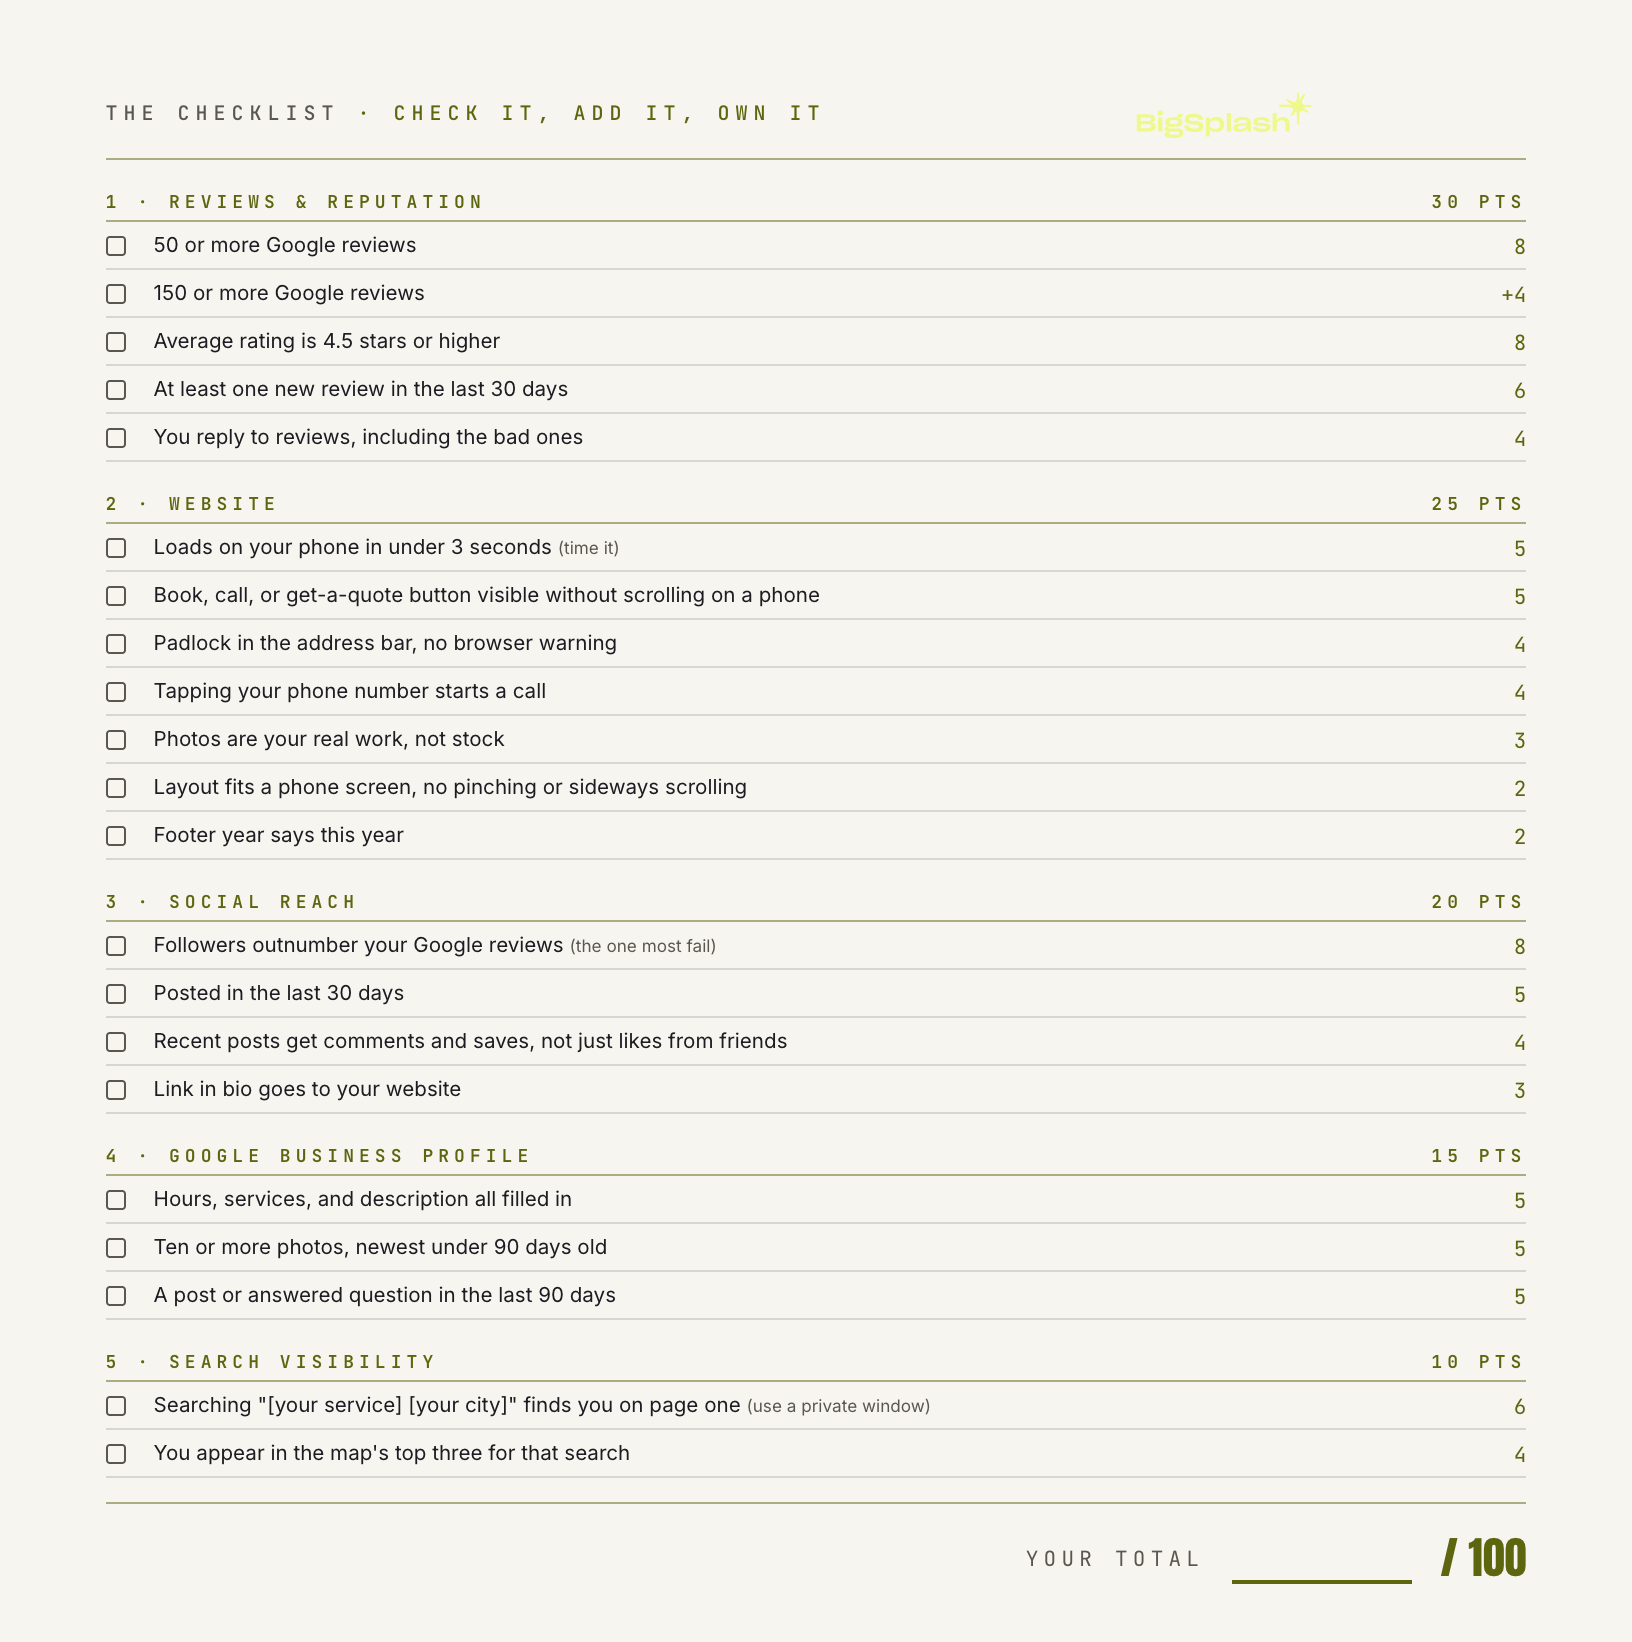
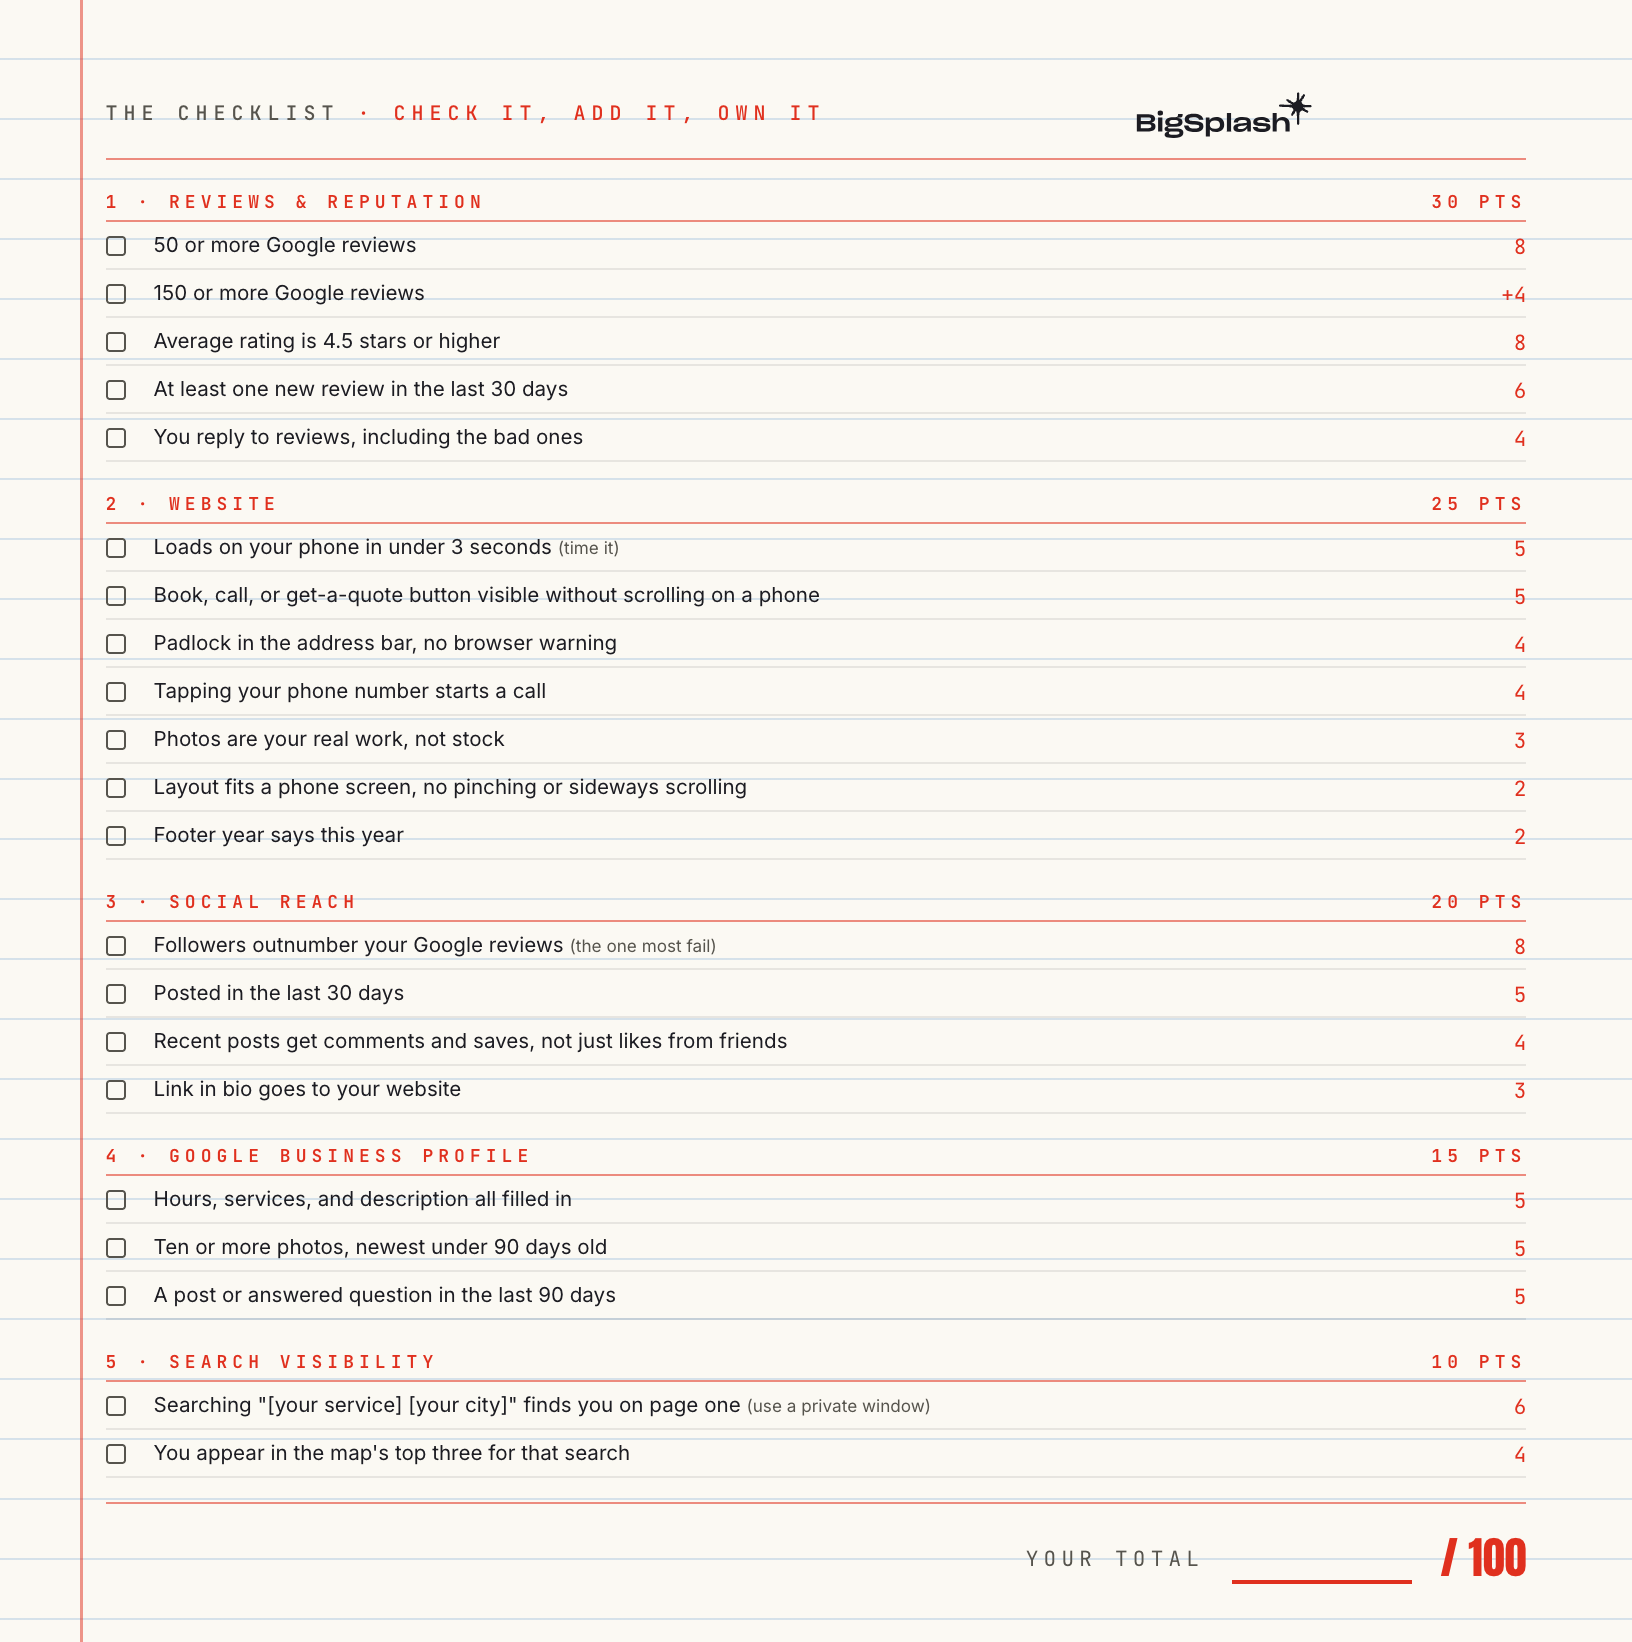
Scorecard preview: school ruled-paper look with red grading + red glow

diff --git a/scorecard/index.html b/scorecard/index.html
@@ -44,8 +44,9 @@
   .hero p { font-size: clamp(16px, 2.2vw, 19px); color: var(--cream-dim); max-width: 560px; margin: 18px 0 0; }
   .preview-img {
     width: 100%; max-width: 380px; display: block; margin: 0 auto;
-    border: 1px solid var(--line-lime); border-radius: 10px;
-    transform: rotate(2.5deg); box-shadow: 0 24px 60px rgba(0,0,0,.55);
+    border: 1px solid rgba(224, 48, 30, .45); border-radius: 10px;
+    transform: rotate(2.5deg);
+    box-shadow: 0 0 70px rgba(224, 48, 30, .28), 0 24px 60px rgba(0, 0, 0, .55);
   }
   .q-ico { font-size: 15px; margin-right: 7px; }
   .mc-img { width: calc(100% + 52px); margin: -26px -26px 18px; height: 172px; object-fit: cover; border-radius: 13px 13px 0 0; display: block; }
